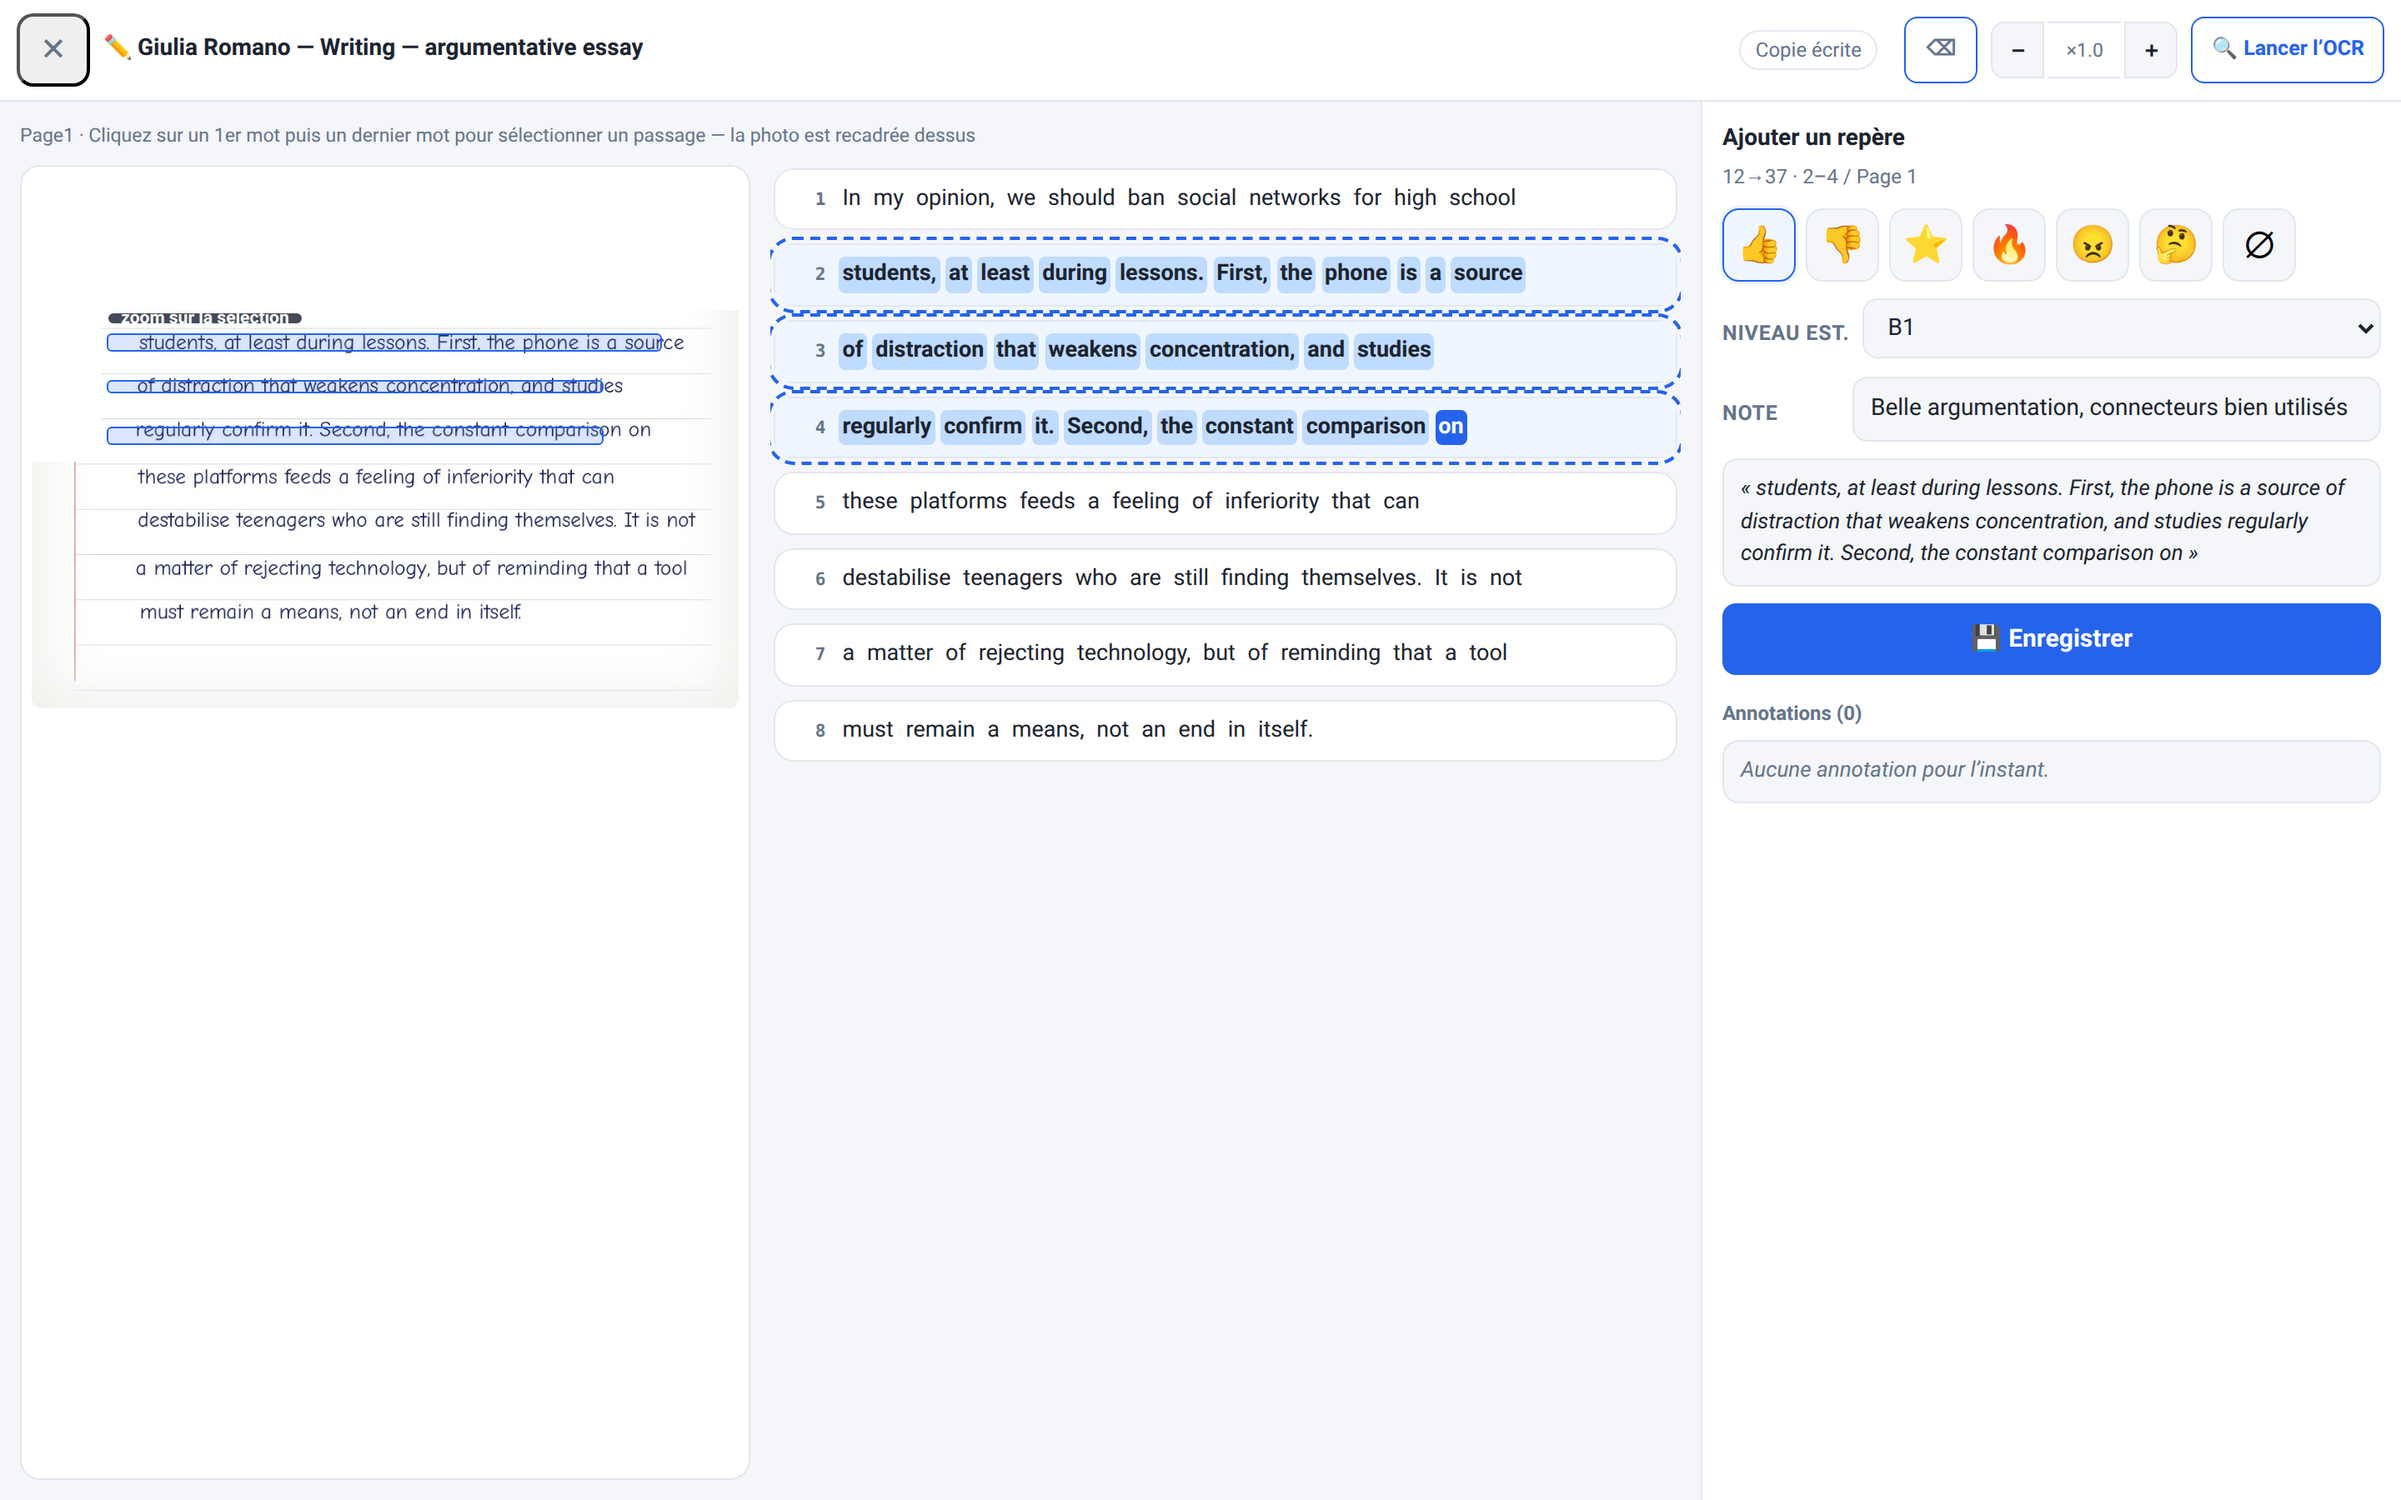
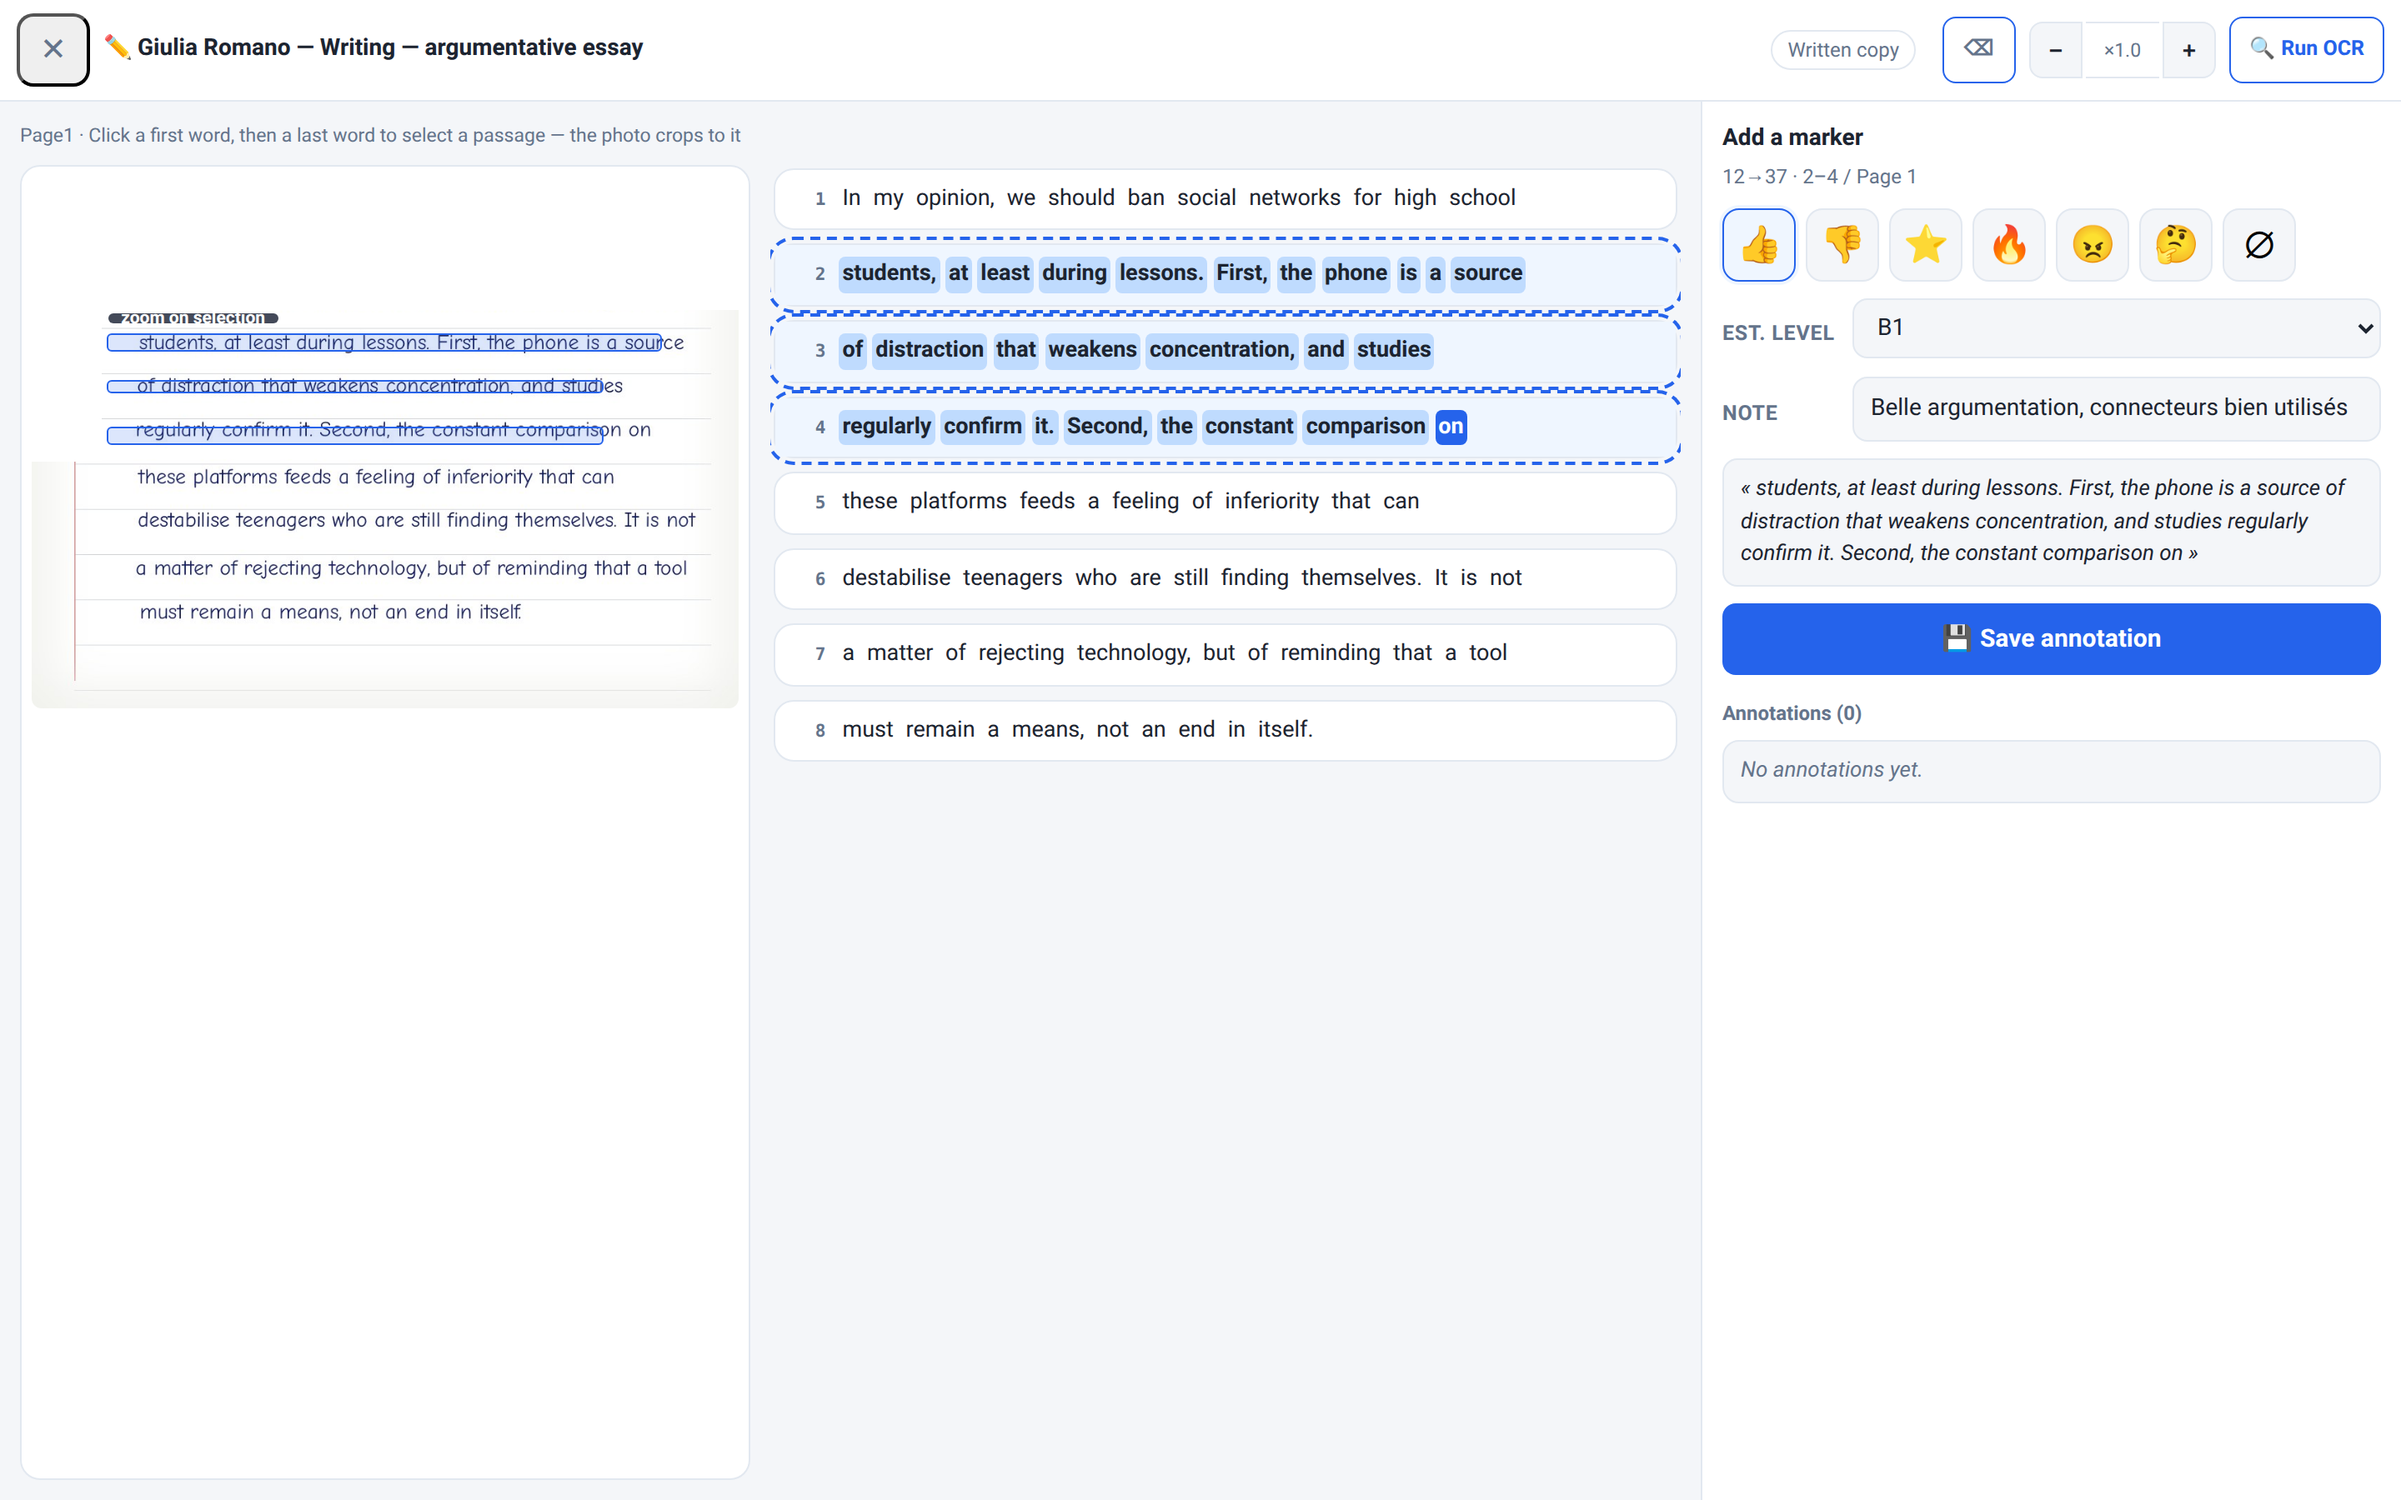
Docs: internationalise README framing + regenerate README media in EN
The app is international (CEFR is a Council of Europe framework, UI in
EN/FR/ES/DE); only the bundled LVA/LVB attestation preset is France-
specific. Make that split explicit:

- README: lead now says 'teacher-facing, international web app', LVA/LVB
  positioned as a shipped preset (the app's only France-specific part);
  new 'Custom rubrics' section (shared presets vs per-owner custom
  rubrics, verified against rubrics.is_preset / routes_rubrics);
  i18n order EN first.
- Regenerate all README screenshots + the radial-menu GIF in the EN UI
  (scripts/shot_*.py now use lang='en', locale en-US). Official grid
  criterion names stay in French — that is data, not UI.

diff --git a/scripts/shot_ocr_annot.py b/scripts/shot_ocr_annot.py
@@ -9,7 +9,7 @@ from shot_common import make_page, login, OUT, BASE
 
 
 def main():
-    pw, b, ctx, pg = make_page(lang="fr", width=1440, height=900)
+    pw, b, ctx, pg = make_page(lang="en", width=1440, height=900)
     errs = []
     pg.on("console", lambda m: errs.append(m.text) if m.type == "error" else None)
     login(pg)

diff --git a/scripts/shot_oral_annot.py b/scripts/shot_oral_annot.py
@@ -9,7 +9,7 @@ from shot_common import make_page, login, OUT, BASE
 
 
 def main():
-    pw, b, ctx, pg = make_page(lang="fr", width=1440, height=900)
+    pw, b, ctx, pg = make_page(lang="en", width=1440, height=900)
     errs = []
     pg.on("console", lambda m: errs.append(m.text) if m.type == "error" else None)
     login(pg)

diff --git a/scripts/shot_mobile_level.py b/scripts/shot_mobile_level.py
@@ -9,7 +9,7 @@ from shot_common import make_page, login, OUT, BASE
 
 
 def main():
-    pw, b, ctx, pg = make_page(lang="fr", width=390, height=844)
+    pw, b, ctx, pg = make_page(lang="en", width=390, height=844)
     errs = []
     pg.on("console", lambda m: errs.append(m.text) if m.type == "error" else None)
     login(pg)

diff --git a/scripts/shot_ai_report.py b/scripts/shot_ai_report.py
@@ -6,7 +6,7 @@ from shot_common import make_page, login, OUT
 
 
 def main():
-    pw, b, ctx, pg = make_page(lang="fr", width=1280, height=900)
+    pw, b, ctx, pg = make_page(lang="en", width=1280, height=900)
     errs = []
     pg.on("console", lambda m: errs.append(m.text) if m.type == "error" else None)
     login(pg)

diff --git a/scripts/shot_common.py b/scripts/shot_common.py
@@ -20,7 +20,7 @@ def make_page(lang="fr", width=1280, height=860):
     ctx = b.new_context(
         viewport={"width": width, "height": height},
         device_scale_factor=2,
-        locale="fr-FR",
+        locale="en-US",
     )
     ctx.add_init_script(
         f"localStorage.setItem('babelgrade-lang', '{lang}');"

diff --git a/scripts/shot_radial_gif.py b/scripts/shot_radial_gif.py
@@ -26,7 +26,7 @@ def shoot(pg, name, hold_ms=0):
 
 
 def main():
-    pw, b, ctx, pg = make_page(lang="fr", width=390, height=844)
+    pw, b, ctx, pg = make_page(lang="en", width=390, height=844)
     errs = []
     pg.on("console", lambda m: errs.append(m.text) if m.type == "error" else None)
     login(pg)

diff --git a/README.md b/README.md
@@ -5,10 +5,14 @@
 [![License: MIT](https://img.shields.io/badge/license-MIT-green.svg)](LICENSE)
 
 **Turn a student's written copy or oral recording into a CEFR attestation with
-verbatim evidence.** BabelGrade is a teacher-facing web app that maps every
-criterion of the official French LVA/LVB attestation grids to a recommended
-CEFR level (A1–C2) — and shows *why*: each recommendation is backed by
-verbatim quotes (or timestamps) from the student's own work.
+verbatim evidence.** BabelGrade is a teacher-facing, **international** web app
+that maps every criterion of a CEFR attestation grid to a recommended level
+(A1–C2) — and shows *why*: each recommendation is backed by verbatim quotes
+(or timestamps) from the student's own work. It ships with the official
+**French LVA/LVB** attestation grids as presets (the app's only France-specific
+part — see [Custom rubrics](#custom-rubrics)), but the framework, the UI and
+the whole workflow are language-neutral: the UI is localised in
+**EN / FR / ES / DE**, and any grid can be defined as a custom rubric.
 
 It is an objective **evidence extractor**: it lowers the teacher's cognitive
 load, never replaces their judgment. Nothing is auto-graded — every level
@@ -34,9 +38,10 @@ stays editable and recomputes instantly.
    and/or the source document (text, photos, PDF, or audio).
 2. **Get a Proof Matrix** — every rubric criterion gets a suggested CEFR
    level, a justification, and verbatim evidence. No level without a quote.
-3. **Attestation synthesis** — for the official LVA/LVB grids, per-criterion
-   levels (A1–C2) are converted to a deterministic **score /120** and an
-   attestation level, recomputed live as the teacher edits.
+3. **Attestation synthesis** — on the official attestation grids (LVA/LVB
+   presets), per-criterion levels (A1–C2) are converted to a deterministic
+   **score /120** and an attestation level, recomputed live as the teacher
+   edits.
 4. **Annotate the copy** — select a word range in the OCR'd transcript: the
    photo auto-crops to it, the teacher drops a marker (sticker, level, note)
    that the AI reads as context for its next run.
@@ -86,9 +91,24 @@ stays editable and recomputes instantly.
   background scheduler (`app/jobs.py`, no external broker). The queue
   survives restarts; progress streams over SSE. See
   [docs/async-jobs.md](docs/async-jobs.md).
-- **Frontend** — a single vanilla-JS page (`static/index.html`), i18n in
-  **FR / EN / ES / DE**, with a simplified "home" mode driven by an animated
-  radial menu.
+- **Frontend** — a single vanilla-JS page (`static/index.html`), localised
+  in **EN / FR / ES / DE**, with a simplified "home" mode driven by an
+  animated radial menu.
+
+## Custom rubrics
+
+BabelGrade works with **any** CEFR rubric, not only the French presets:
+
+- **Presets (shared):** the official French LVA/LVB attestation grids
+  (comprehension, written expression, oral expression) are bundled as
+  shared rubrics with the official A1→C2 criterion descriptors, the
+  deterministic /120 scoring and the attestation thresholds. They ship
+  in their original French wording — that is data, not UI: every screen
+  around them is in the language the teacher has chosen.
+- **Custom rubrics (per owner):** teachers can create their own rubric with
+  any criteria, any level scale and any wording, in whatever language they
+  prefer. A custom rubric is private to its owner and can be used on any
+  assignment, in any of the four UI languages.
 
 ## Quick start
 
@@ -180,7 +200,7 @@ app/media.py           upload staging + PDF/scan/doc-audio extraction
 app/ocr.py             LLM-direct OCR for the annoter (per-line boxes 0..1000)
 app/imaging.py         image enhancement for copy-photo OCR
 app/config.py          paths + upload limits
-static/index.html      single-page UI (FR/EN/ES/DE)
+static/index.html      single-page UI (EN/FR/ES/DE)
 docs/                  user guide, architecture, async-jobs (in-app Docs view)
 tests/                 hermetic + Playwright E2E suites, mock LLM server
 scripts/               dev probes and screenshot generators
